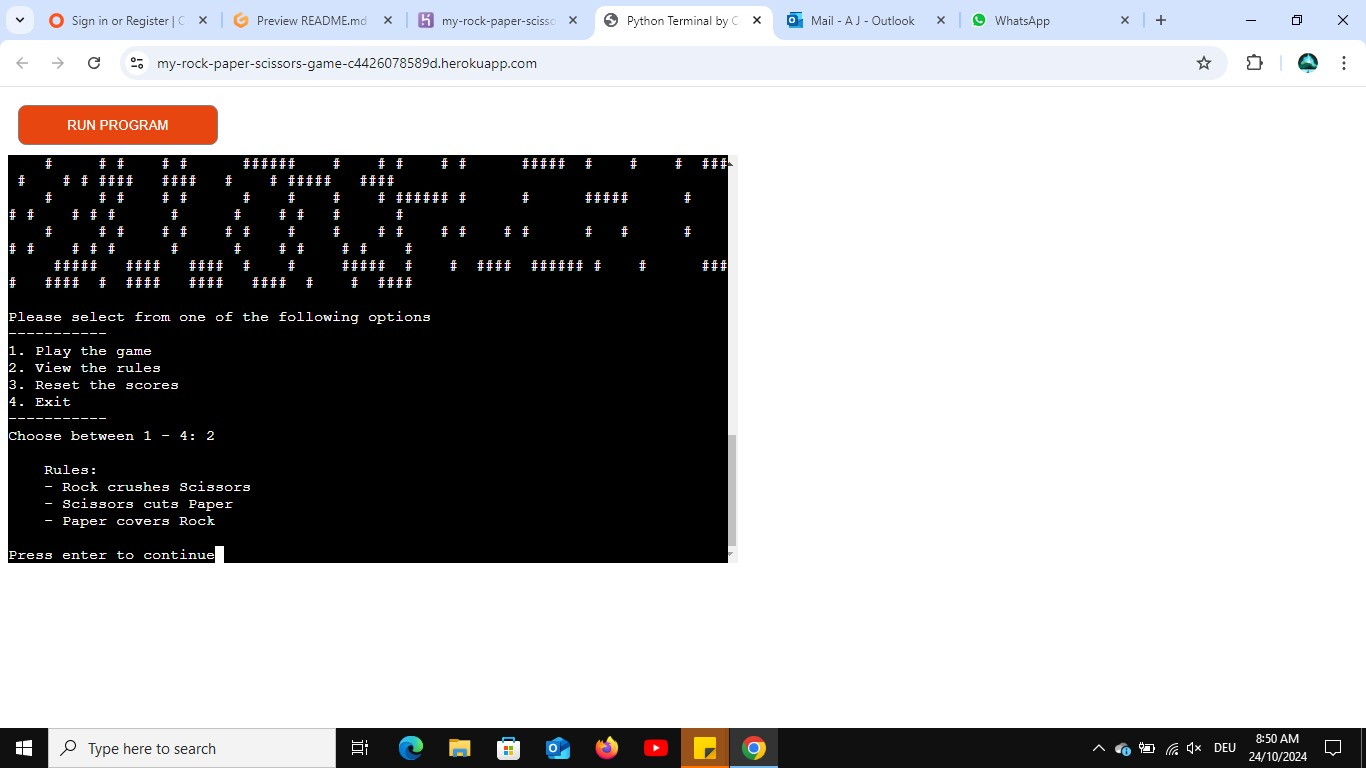
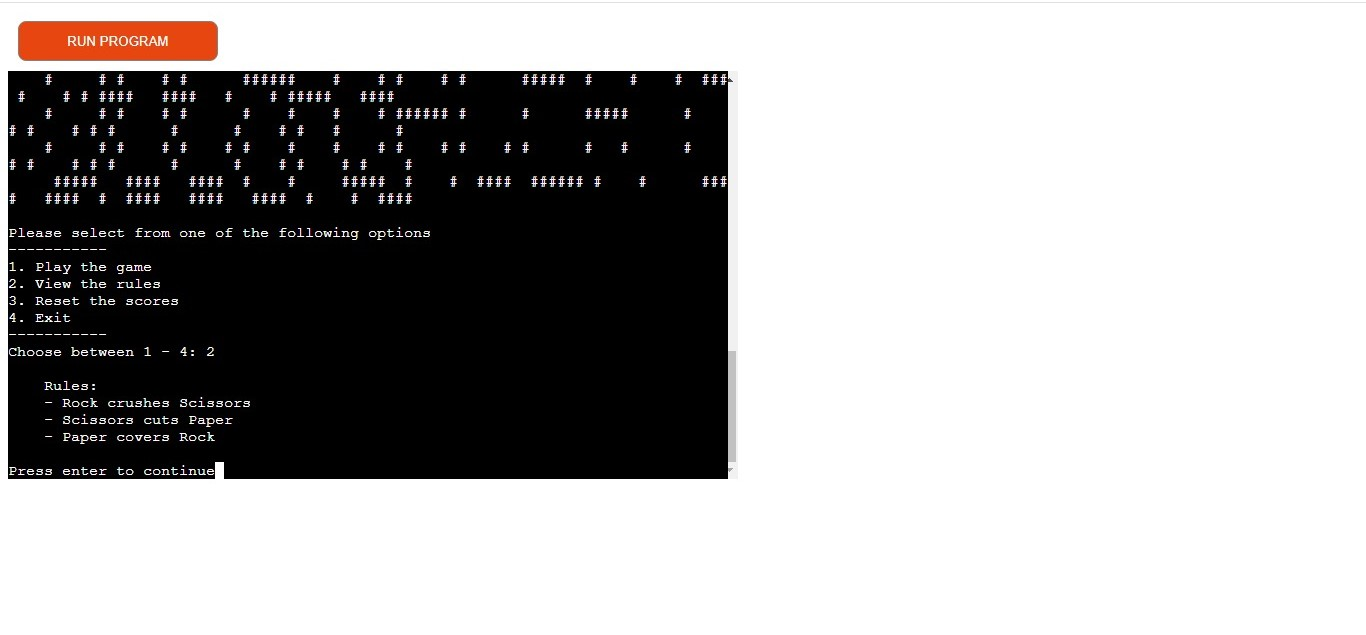
add more images to the readme.md file

diff --git a/README.md b/README.md
@@ -135,7 +135,8 @@ The game continues by asking the player whether they want to continue by choosin
 ![screenshot-invalid](images/invalid-number.png)
 - If the player decides to play again but decides to choose "5" from the list which is invalid since there are only the options from 1 to 4 then the game would note the player that they have chosen an invalid number and ought to choose a correct number.
 
-![screenshot-show-rules]()
+![screenshot-show-rules](images/five-show-rules.jpeg)
+- This screenshot highlights the incident when the player wants to know the rules of the game. Number three when chosen, it will show the rules of the game and which option is stronger than the other. There were three sentences to demonstrate that.
 
 _____
 
